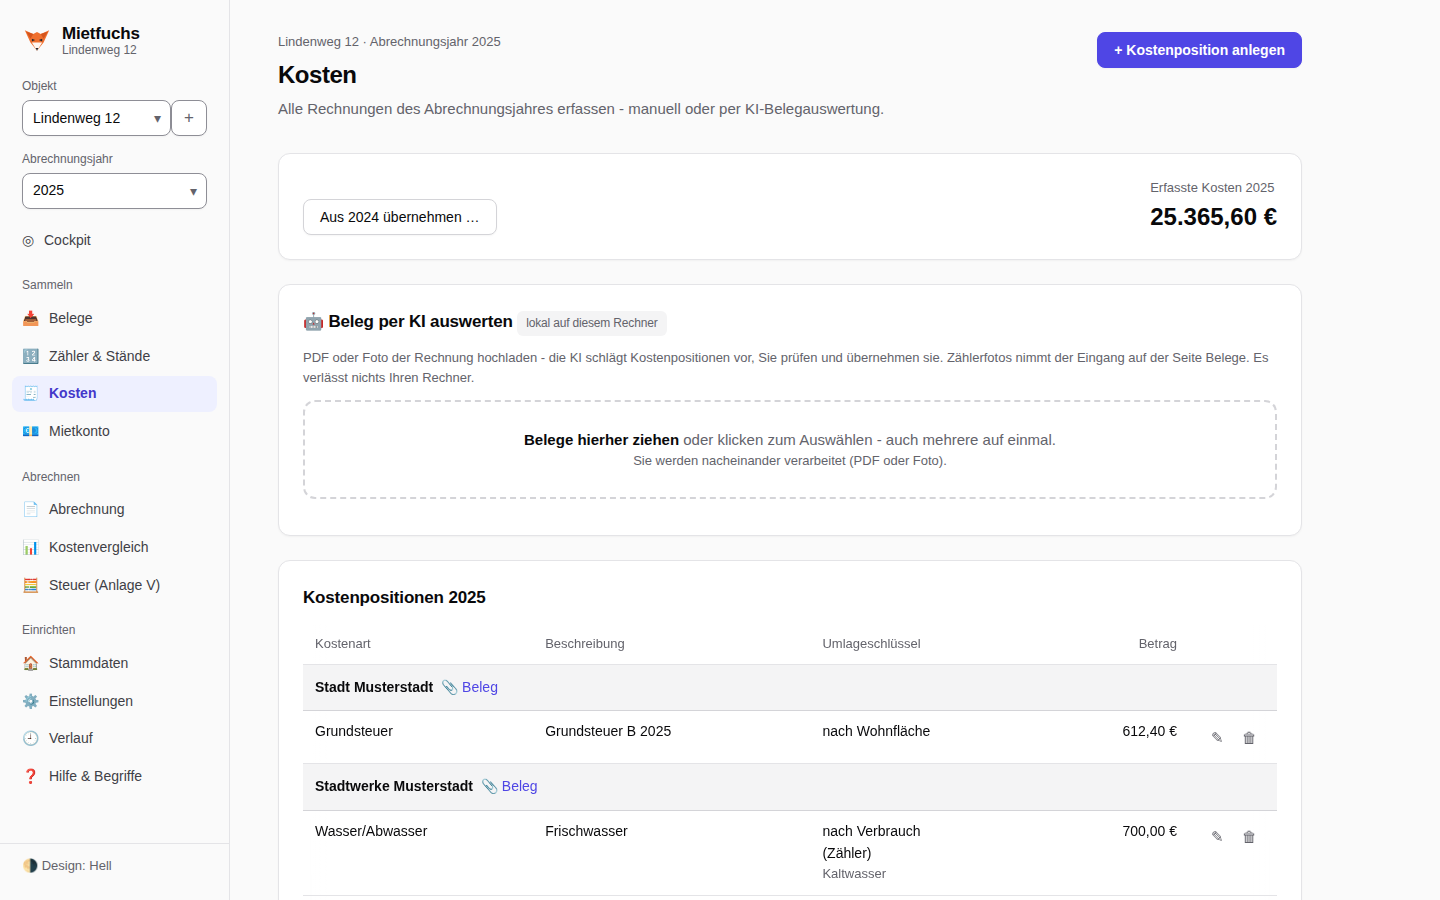
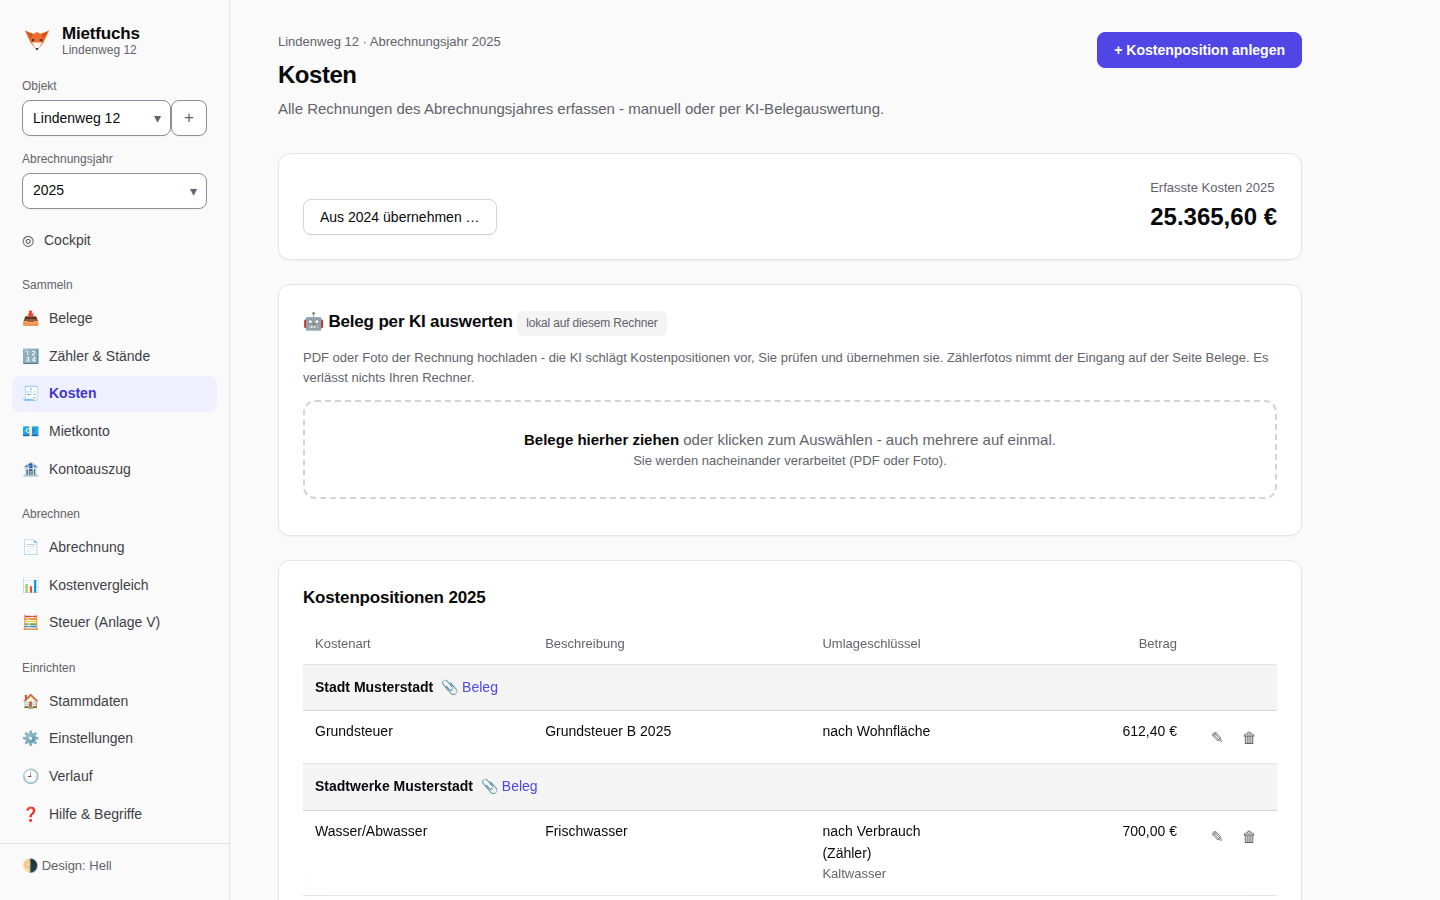
chore(release): v0.18.0 (#641)
Version 0.18.0 in Root, server, client und desktop, Release-Schritte 103,
CHANGELOG-Abschnitt mit Vergleichslinks, Bildschirmfotos neu.

Refs #188, #228, #189, #624, #528

diff --git a/server/src/db/releaseSteps.ts b/server/src/db/releaseSteps.ts
@@ -20,6 +20,7 @@ export const RELEASE_STEPS: readonly { version: string, steps: number }[] = [
   { version: '0.15.0', steps: 85 },
   { version: '0.16.0', steps: 92 },
   { version: '0.17.0', steps: 94 },
+  { version: '0.18.0', steps: 103 },
 ]
 
 const parts = (version: string): number[] => version.split(/[.-]/).slice(0, 3).map((p) => Number.parseInt(p, 10) || 0)

diff --git a/CHANGELOG.md b/CHANGELOG.md
@@ -6,6 +6,8 @@ Alle nennenswerten Änderungen an Mietfuchs. Das Format orientiert sich an
 
 ## [Unveröffentlicht]
 
+## [0.18.0] – 2026-11-13
+
 ### Hinzugefügt
 
 - Kontoauszug einlesen: Auf der neuen Seite „Kontoauszug“ (unter Mietkonto) lesen Sie den Auszug Ihrer Bank als
@@ -15,8 +17,8 @@ Alle nennenswerten Änderungen an Mietfuchs. Das Format orientiert sich an
   Tages, nie einzeln.
   Zweimal eingelesene Tage ändern nichts. Zu jedem offenen Umsatz schlägt die Seite Mietverhältnis und Art vor (über
   die IBAN), mit Ampel und Grund; „Buchen“ legt die Zahlung am Buchungstag im Mietkonto an, eine Kaution als
-  Kautionsbuchung, eine schon erfasste Zahlung wird nur verknüpft. Aufteilen auf zwei Wohnungen, Beiseitelegen und
-  Lösen gehen ebenso; je Konto steht, ob es lückenlos eingelesen ist. Das Cockpit nennt nicht zugeordnete Umsätze,
+  Kautionsbuchung, eine schon erfasste Zahlung wird nur verknüpft. Aufteilen auf mehrere Mietverhältnisse, Beiseitelegen
+  und Lösen gehen ebenso; je Konto steht, ob es lückenlos eingelesen ist. Das Cockpit nennt nicht zugeordnete Umsätze,
   das Mietkonto vermerkt „aus dem Kontoauszug“, und der Eingang der Belege weist Kontoauszüge ab, damit Bankdaten nie
   an eine KI gehen ([#188](https://github.com/speedone/mietfuchs/issues/188)).
 - Kaution führen: Am Mietverhältnis (Stammdaten, „Kaution führen“) buchen Sie Eingänge, auch in Raten, Zinsen,
@@ -3674,7 +3676,8 @@ Verteilung nach Wohnfläche, Personenzahl, Wohneinheiten, Verbrauch oder Direktz
 druckfertige Abrechnung je Mieter, Mietkonto, Steuerübersicht für die Anlage V, optionale
 KI-Belegauswertung gegen eine lokale Ollama-Instanz, Backup und Wiederherstellung.
 
-[Unveröffentlicht]: https://github.com/speedone/mietfuchs/compare/v0.17.0...HEAD
+[Unveröffentlicht]: https://github.com/speedone/mietfuchs/compare/v0.18.0...HEAD
+[0.18.0]: https://github.com/speedone/mietfuchs/compare/v0.17.0...v0.18.0
 [0.17.0]: https://github.com/speedone/mietfuchs/compare/v0.16.1...v0.17.0
 [0.16.1]: https://github.com/speedone/mietfuchs/compare/v0.16.0...v0.16.1
 [0.16.0]: https://github.com/speedone/mietfuchs/compare/v0.15.2...v0.16.0
